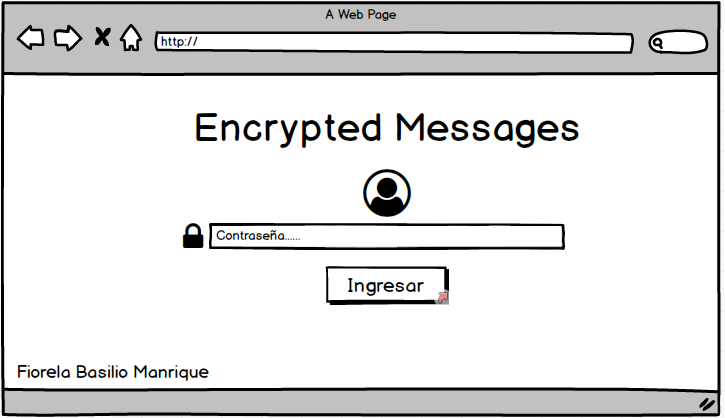
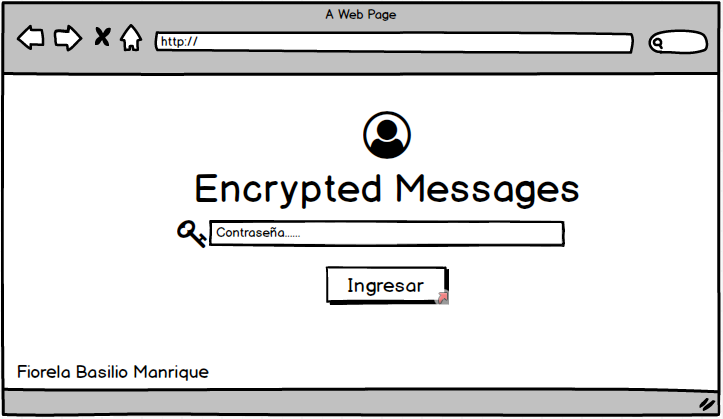
Editando las imagenes del Prototipo en Papel

diff --git a/src/style.css b/src/style.css
@@ -1,1 +1,109 @@
 /* Acá van tus reglas de estilo */
+*{
+    margin: 0px;
+    padding: 0px;
+    font-family: 'Josefin Sans', sans-serif;
+}
+
+body{
+    /*background-image:url(img/8.jpg) ;*/
+    background-color: blue;
+    background-size: 100%;
+    background-repeat: no-repeat;
+    display: flex;
+    flex-direction: column;
+    align-items: center;
+    width: 100%;
+    height: 100%;
+    color: white;
+}
+
+.inicio{
+    margin-top: 130px;
+    margin-bottom: 250px;
+    display: flex;
+    flex-direction: column;
+    align-items: center;
+    align-content: center;
+    border-radius: 5px;
+}
+
+.fondo{
+    width:100%;
+    background-color: rgba(0, 0, 0, 0.2);
+    margin: 0px;
+    display: flex;
+    flex-direction: column;
+    align-items: center;
+    align-content: center;
+    border-radius: 5px;
+}
+.fondo img{
+    margin-top: -75px;
+    margin-bottom: 40px;
+    width: 50%;
+    border-radius: 50%;
+    border:solid white 5px;
+}
+
+.fondo h2{
+    color: white;
+    text-align: center;
+    font-size: 50px;
+    margin-bottom: 50px;
+}
+
+.fondo form{
+    width: 50%;
+}
+
+.fondo form span{
+    margin-right: 0px;
+    background-color: rgba(255, 255, 255, .6);
+    color: black;
+    border:solid 7px rgba(255, 255, 255, .01);
+    border-bottom:  solid 9.5px rgba(255, 255, 255, .01);
+    border-top: solid 9px rgb(255, 255, 255, .01);
+    border-top-left-radius: 5px;
+    border-bottom-left-radius: 5px;
+}
+
+.caja{
+    box-shadow: 0px;
+    border: 0px;
+    background-color: rgba(255, 255, 255, .1);
+    width: 90%;
+    margin-bottom: 35px;
+    height: 30px;
+    border: solid 2px  rgb(255, 255, 255, .5);
+    font-size: 20px;
+    color: white;
+    border-top-right-radius: 5px;
+    border-bottom-right-radius: 5px;
+    text-align: center;
+}
+
+.icono form{
+   position: absolute;
+   left: 0;
+   top:8px;
+   padding: 9px 8px;
+   color:#aaa;
+}
+
+.boton{
+    width: 100%;
+    height: 40px;
+    font-size: 25px;
+    border: 0px;
+    text-align: center;
+    background: rgba(19, 136, 78, 0.932);
+    border-bottom: solid 1px white;
+    color: white;
+    margin-top: 10px;
+}
+
+.boton:hover{
+    background-color:  #15AC35;
+    color: white;
+}

diff --git a/src/index.html b/src/index.html
@@ -2,14 +2,53 @@
 <html>
   <head>
     <meta charset="utf-8">
+
     <title>Caesar Cipher</title>
+
+    <!--Iconos-->
+    <link rel="stylesheet" href="https://use.fontawesome.com/releases/v5.8.1/css/all.css" integrity="sha384-50oBUHEmvpQ+1lW4y57PTFmhCaXp0ML5d60M1M7uH2+nqUivzIebhndOJK28anvf" crossorigin="anonymous">
+
+    <!--Fuente-->
+    <link href="https://fonts.googleapis.com/css?family=Josefin+Sans&display=swap" rel="stylesheet">
+    <link href="https://fonts.googleapis.com/css?family=Pacifico&display=swap" rel="stylesheet">
+
+    <!--Estilos-->
     <link rel="stylesheet" href="style.css" />
   </head>
+
   <body>
-    <header></header>
-    <main></main>
-    <footer></footer>
+      <div class="contenedor" >
+
+    <header>
+      
+    </header>
+
+    <main>
+        <div class="inicio">
+
+          <article class="fondo">
+            <img src="img/9.jpg" alt="Usuario">
+
+            <h2>Encrypted Messages</h2>
+
+            <form action="#">
+            <span class="icono"><i class="fas fa-key"></i></span>
+            <input class="caja" type="password" placeholder="Contraseña...." value="" required>
+            <input class="boton" type="submit" value="Ingresar" required>
+            </form>
+
+          </article>
+
+        </div>
+      
+    </main>
+
+    <footer>
+
+    </footer>
+
     <script src="cipher.js"></script>
     <script src="index.js"></script>
+  </div>
   </body>
 </html>
